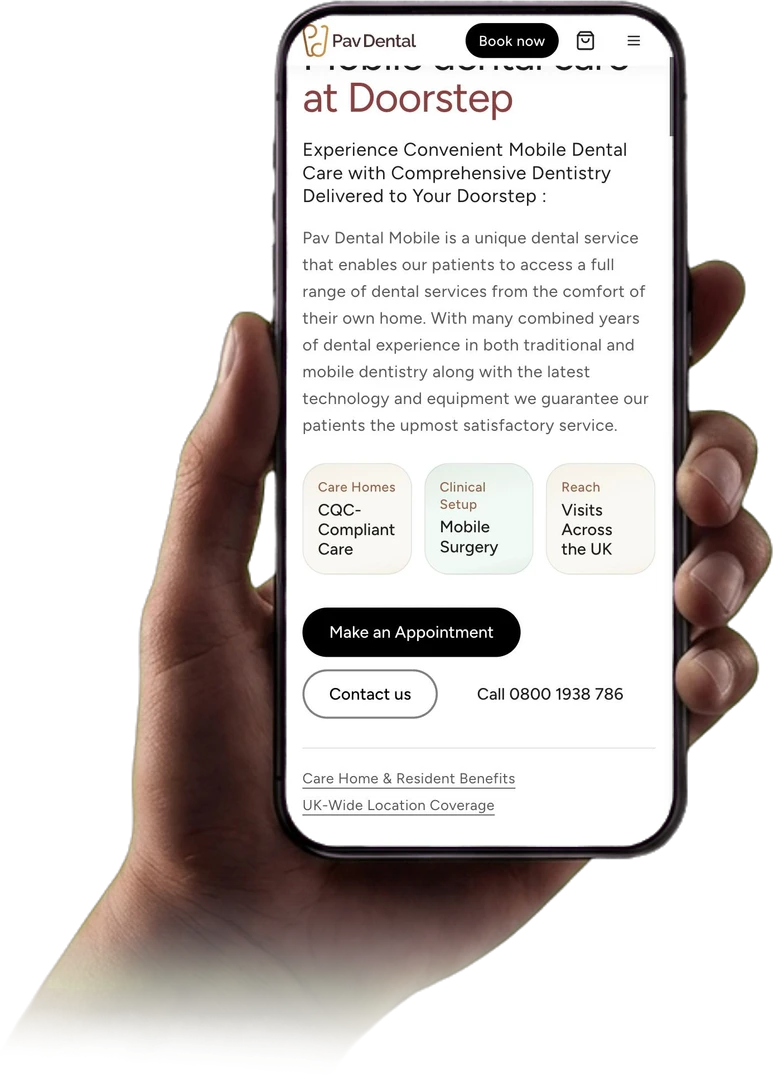
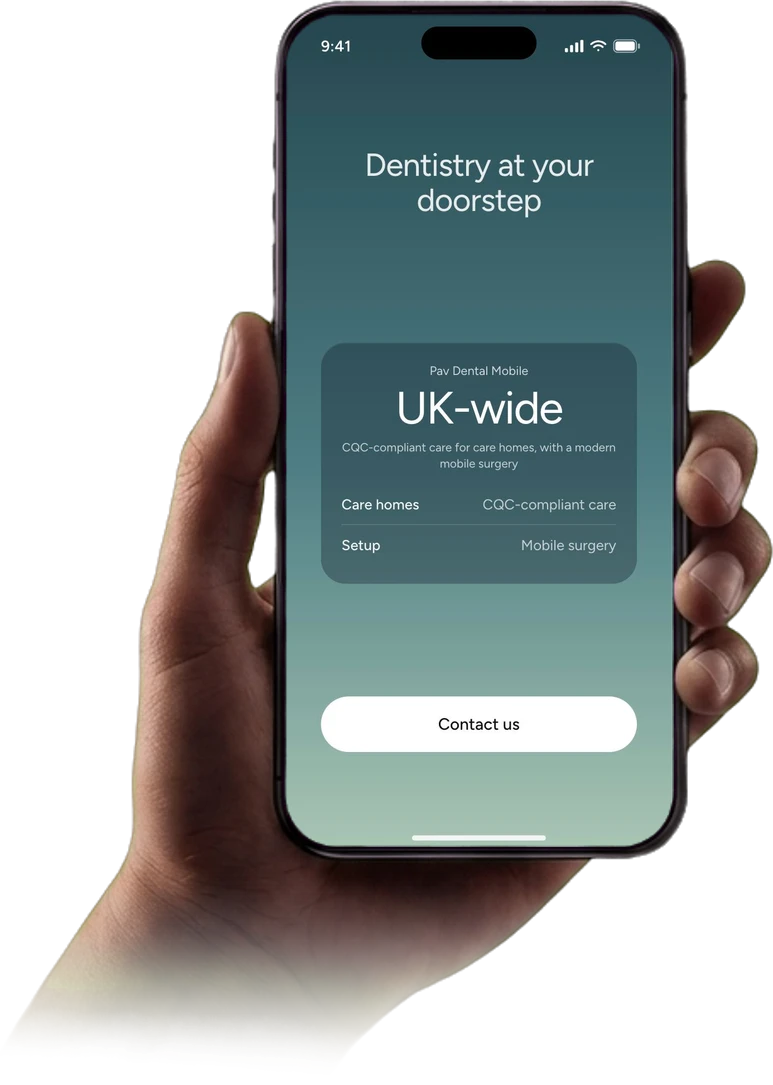
website: phone mockups show designed app screens (status bar, notch, gradient, price card) like Hims
Six app-style screens built with the site's font from real prices and facts on the service pages, composited into the Flow phone mockups.

diff --git a/website/src/components/home/services-feature.tsx b/website/src/components/home/services-feature.tsx
@@ -150,7 +150,7 @@ export function ServicesFeature() {
           <h2 className="mt-2 text-h3-md text-white">{active.heading}</h2>
           <img
             src={active.phoneSrc}
-            alt={`Hand holding a smartphone showing the Pav Dental ${active.tabLabel} page`}
+            alt={`Hand holding a smartphone showing a Pav Dental ${active.tabLabel} app screen`}
             loading="lazy"
             width={773}
             height={1085}

diff --git a/website/src/components/home/care-feature.tsx b/website/src/components/home/care-feature.tsx
@@ -36,7 +36,7 @@ export function CareFeature() {
             </h2>
             <img
               src="/images/home/phone-emergency.webp"
-              alt="Hand holding a smartphone showing the Pav Dental emergency dental page"
+              alt="Hand holding a smartphone showing a Pav Dental emergency dentist app screen"
               loading="lazy"
               width={773}
               height={1085}
